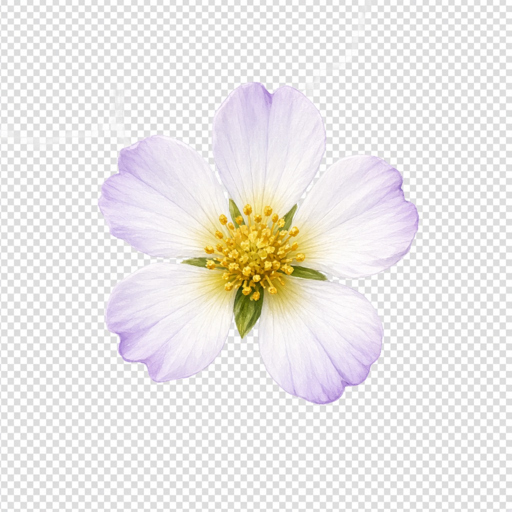
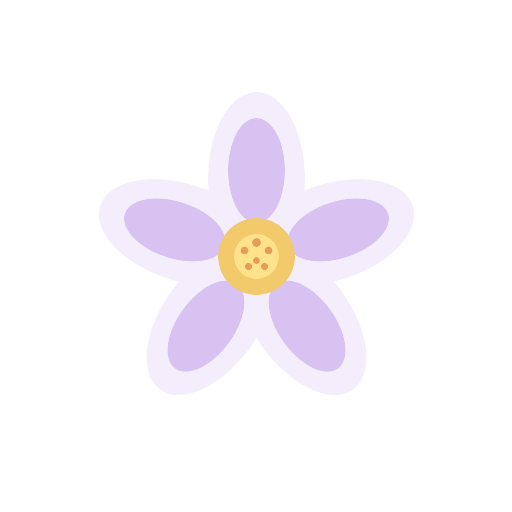
Add flower SVG and update flower material in ButterflyScene

diff --git a/src/butterfly-scene.ts b/src/butterfly-scene.ts
@@ -181,7 +181,7 @@ export class ButterflyScene {
   private updateAnchor(pose: FacePose): void {
     if (!pose.visible && this.state !== 'waiting') return;
     const targetX = pose.x * this.aspect;
-    const targetY = pose.y + Math.min(pose.width * 0.04, 0.03);
+    const targetY = pose.y + Math.min(pose.width * 0.1, 0.07);
     const follow = pose.visible ? 0.2 : 0.08;
     this.anchor.x += (targetX - this.anchor.x) * follow;
     this.anchor.y += (targetY - this.anchor.y) * follow;
@@ -190,12 +190,15 @@ export class ButterflyScene {
   private async loadFlower(): Promise<void> {
     this.flowerTexture = await new THREE.TextureLoader().loadAsync('/flower.png');
     this.flowerTexture.colorSpace = THREE.SRGBColorSpace;
-    this.flowerTexture.premultiplyAlpha = true;
-    this.flower.material.map = this.flowerTexture;
-    this.flower.material.transparent = true;
-    this.flower.material.alphaTest = 0.12;
-    this.flower.material.premultipliedAlpha = true;
-    this.flower.material.needsUpdate = true;
+    this.flower.material.dispose();
+    this.flower.material = new THREE.SpriteMaterial({
+      map: this.flowerTexture,
+      color: 0xffffff,
+      transparent: true,
+      alphaTest: 0.2,
+      depthWrite: false,
+      opacity: 0,
+    });
   }
 
   private updateFlower(pose: FacePose): void {
@@ -217,7 +220,7 @@ export class ButterflyScene {
 
   private updateFlight(pose: FacePose): void {
     if (this.state === 'waiting') {
-      this.anchor.set(pose.x * this.aspect, pose.y + Math.min(pose.width * 0.04, 0.03));
+      this.anchor.set(pose.x * this.aspect, pose.y + Math.min(pose.width * 0.1, 0.07));
       this.transition('entering');
       this.butterfly.visible = true;
     }

diff --git a/src/face-tracker.ts b/src/face-tracker.ts
@@ -98,7 +98,7 @@ export class FaceTracker {
       const dy = to.y - from.y;
       const eyeSpan = Math.max(Math.hypot(dx, dy), 0.001);
       const viewportAspect = window.innerWidth / Math.max(window.innerHeight, 1);
-      const lift = eyeSpan * 0.52;
+      const lift = eyeSpan * 0.78;
       const forehead = {
         x: (from.x + to.x) / 2 - (dy / eyeSpan) * lift,
         y: (from.y + to.y) / 2 + (dx / eyeSpan) * lift,
